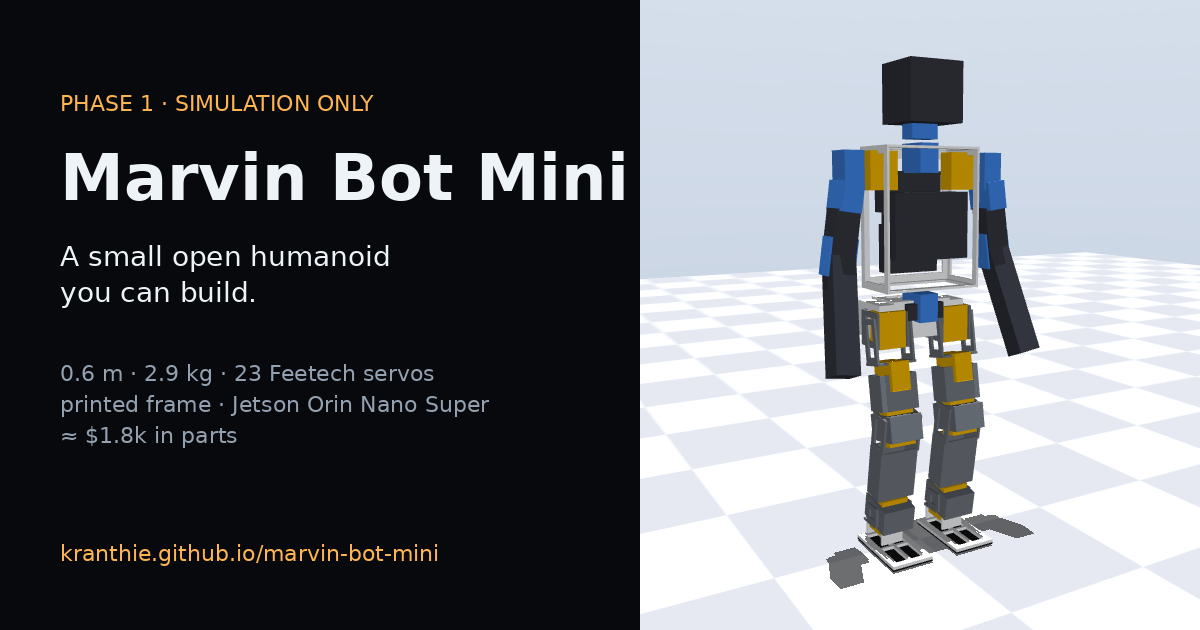
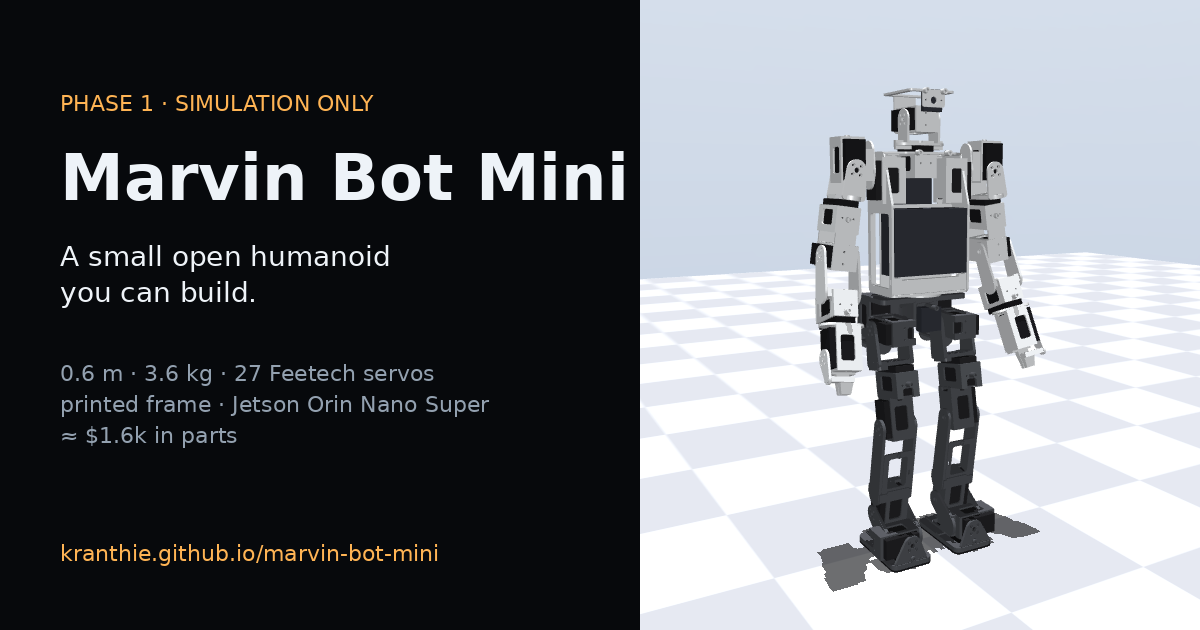
Prepare for public release: fix stale requirements, card and README
- Requirements R2 and R3 match the decisions: 3.6 kg target, 3.9 kg limit,
  a wrist yaw and a one-servo pincer per arm
- Social card: 3.6 kg and $1.6k (the BOM's total)
- README: the clearance, harness and stress checks; what is still to come
- robot.yaml mass comment and CLAUDE.md phase brought up to date

Changed region(s): [[0.6783, 0.0905, 0.8633, 0.9349], [0.1233, 0.573, 0.1542, 0.6032]]

diff --git a/site/scripts/social_card.py b/site/scripts/social_card.py
@@ -49,9 +49,9 @@ def main() -> None:
     )
     lines = "\n".join(
         [
-            "0.6 m · 3.3 kg · 27 Feetech servos",
+            "0.6 m · 3.6 kg · 27 Feetech servos",
             "printed frame · Jetson Orin Nano Super",
-            "≈ $1.8k in parts",
+            "≈ $1.6k in parts",
         ]
     )
     d.text((60, 360), lines, font=sm, fill=(147, 161, 176), spacing=10)

diff --git a/README.md b/README.md
@@ -99,8 +99,8 @@ site/          the documentation website (Astro Starlight): 3-D home page, 3-D m
                synced from this repository's Markdown (site/README.md)
 ```
 
-Still to come, as phases reach them: `bench/` and `robot/` (phase 2), a harness generator in
-`electrical/`, and build guides.
+Still to come, as phases reach them: `bench/` and `robot/` (phase 2), and schematics and the
+power board in `electrical/`.
 
 ## Checks
 
@@ -121,9 +121,14 @@ python -m cad.build                 # part meshes, masses and sizes (cad_model.y
 python -m cad.export                # STL per part (outputs/), the workbook's made-parts sheet
 python sim/mujoco/check_torques.py  # held poses on the servo model, against the torque rule
 python sim/mujoco/check_symmetry.py # the training's left-right mirror rule against the model
+python -m cad.check                 # no part or shell meets another through the joints' ranges
+python -m cad.harness               # the servo buses' lead lengths
 pytest -q tests
 MUJOCO_GL=egl python tools/render_robot.py   # the renders above; MUJOCO_GL=egl without a display
 ```
+
+The stress check is not in CI (it takes minutes per part and tens of GB of memory):
+`pip install -e ".[cad,fea]"`, then `python -m cad.fea`.
 
 CI (`.github/workflows/ci.yml`) runs `tools/check_all.sh` on every push and pull request; the
 website is built and deployed by `.github/workflows/pages.yml`.

diff --git a/CLAUDE.md b/CLAUDE.md
@@ -1,6 +1,6 @@
 # Marvin Bot Mini
 
-A ~0.6 m, ~3.6 kg, 27-DOF open humanoid on Feetech STS serial-bus servos (STS3250 legs, STS3215 12 V upper body, wrists and pincer grippers), printed frame, Jetson Orin Nano Super 8 GB onboard, 3S battery. The miniature of Marvin Bot (the 1.41 m humanoid), with the same architecture. Currently in phase 0 (foundations).
+A ~0.6 m, ~3.6 kg, 27-DOF open humanoid on Feetech STS serial-bus servos (STS3250 legs, STS3215 12 V upper body, wrists and pincer grippers), printed frame, Jetson Orin Nano Super 8 GB onboard, 3S battery. The miniature of Marvin Bot (the 1.41 m humanoid), with the same architecture. Currently in phase 1 (the robot in simulation).
 
 ## Read first
 - `README.md`: overview and layout

diff --git a/docs/requirements.md b/docs/requirements.md
@@ -7,8 +7,8 @@
 | ID | Requirement | Target | Level |
 |---|---|---|---|
 | R1 | Standing height | about 0.60 m | must |
-| R2 | Total mass with battery | ≤3.0 kg target bare; ≤3.5 kg hard limit as it runs, add-on shells included | must |
-| R3 | Joint names and layout | Marvin Bot's joints without the wrists and hands, so its motion pipeline carries over | must |
+| R2 | Total mass with battery | ≤3.6 kg target bare; ≤3.9 kg limit as it runs, add-on shells included (the torque checks pass at that mass; decisions 2026-11-11) | must |
+| R3 | Joint names and layout | Marvin Bot's joint names, so its motion pipeline carries over; a wrist yaw and a one-servo pincer in place of its wrists and hands | must |
 
 ## Mobility
 
